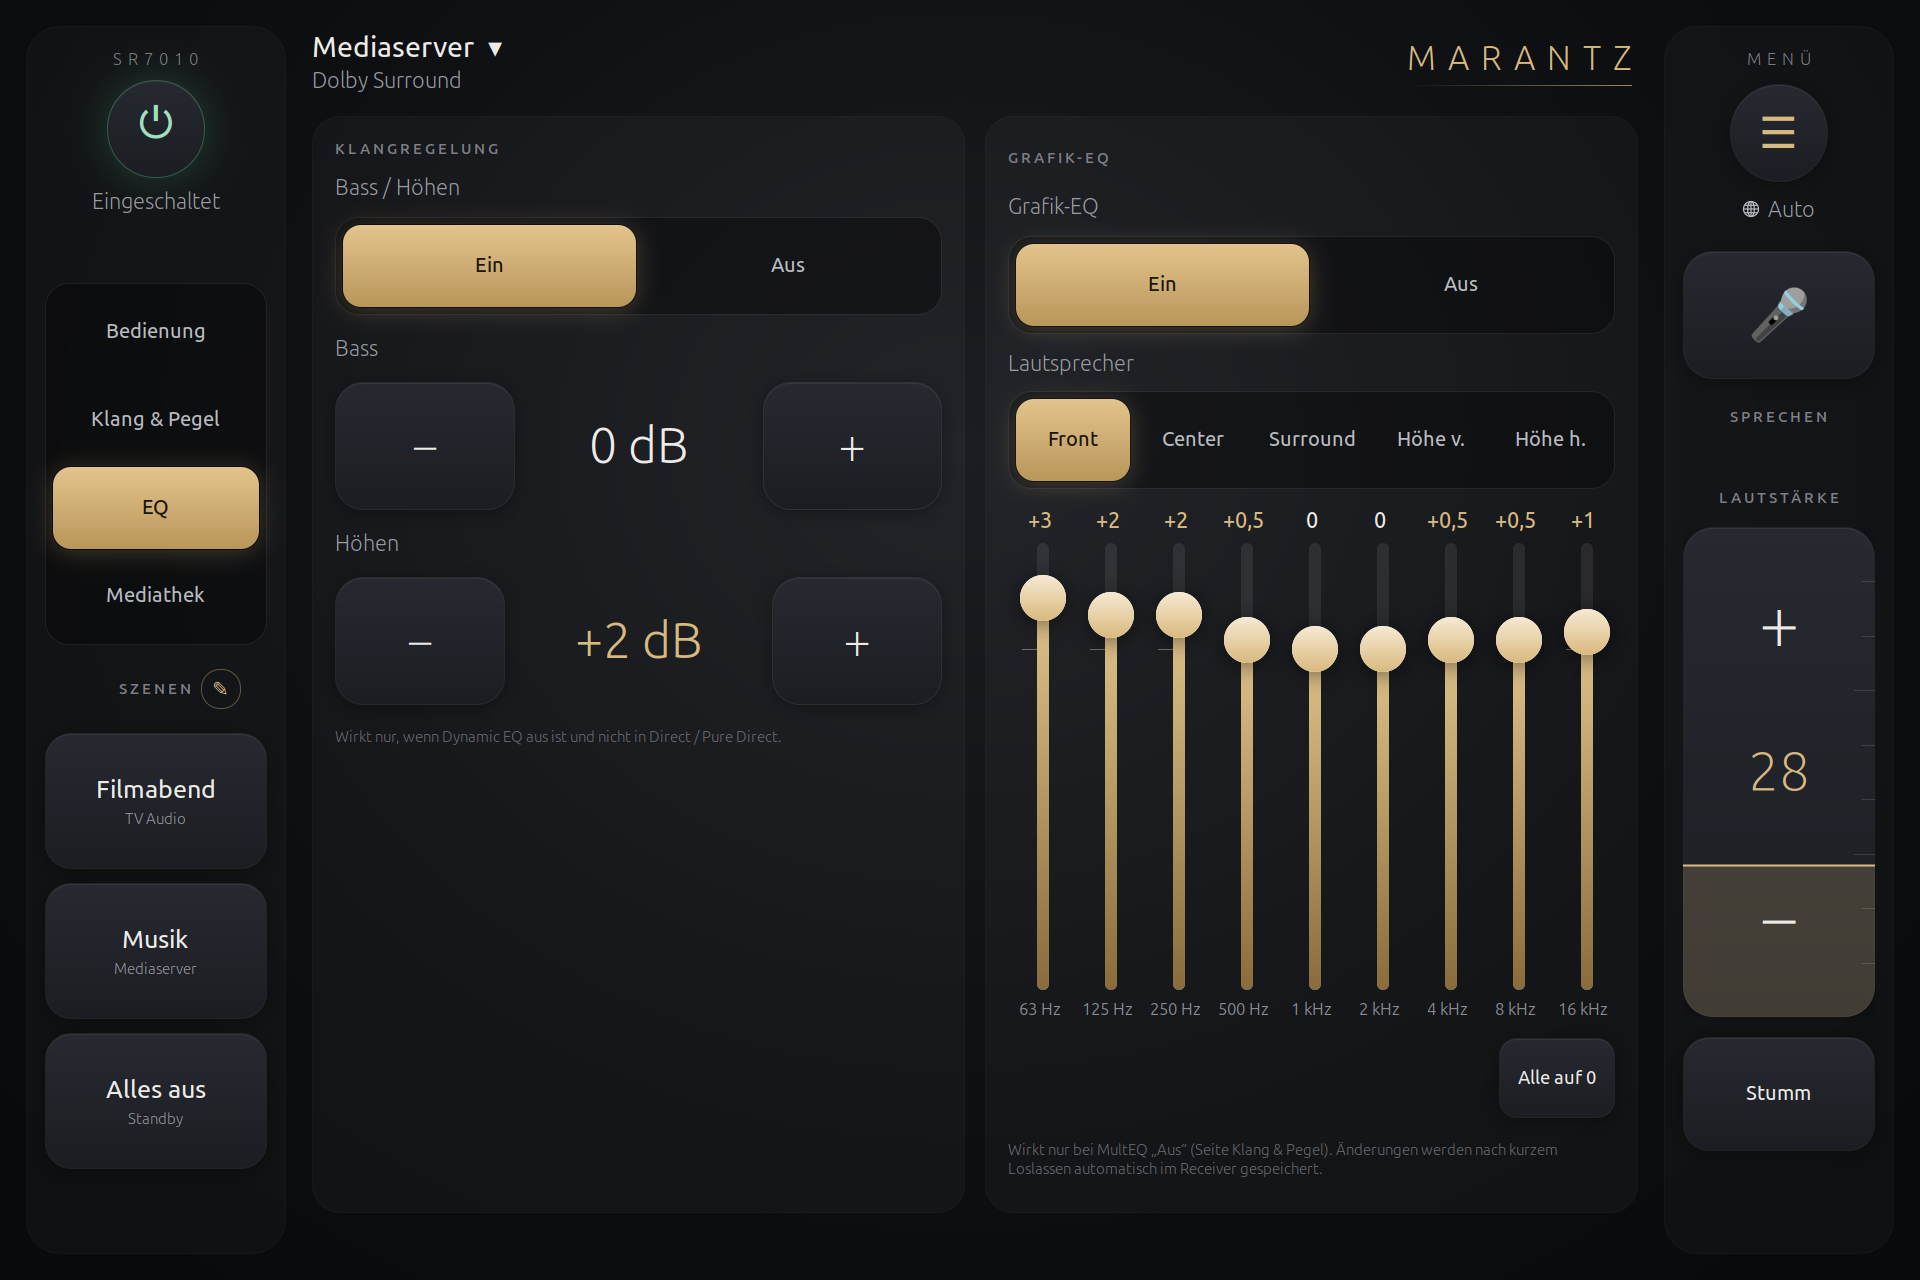
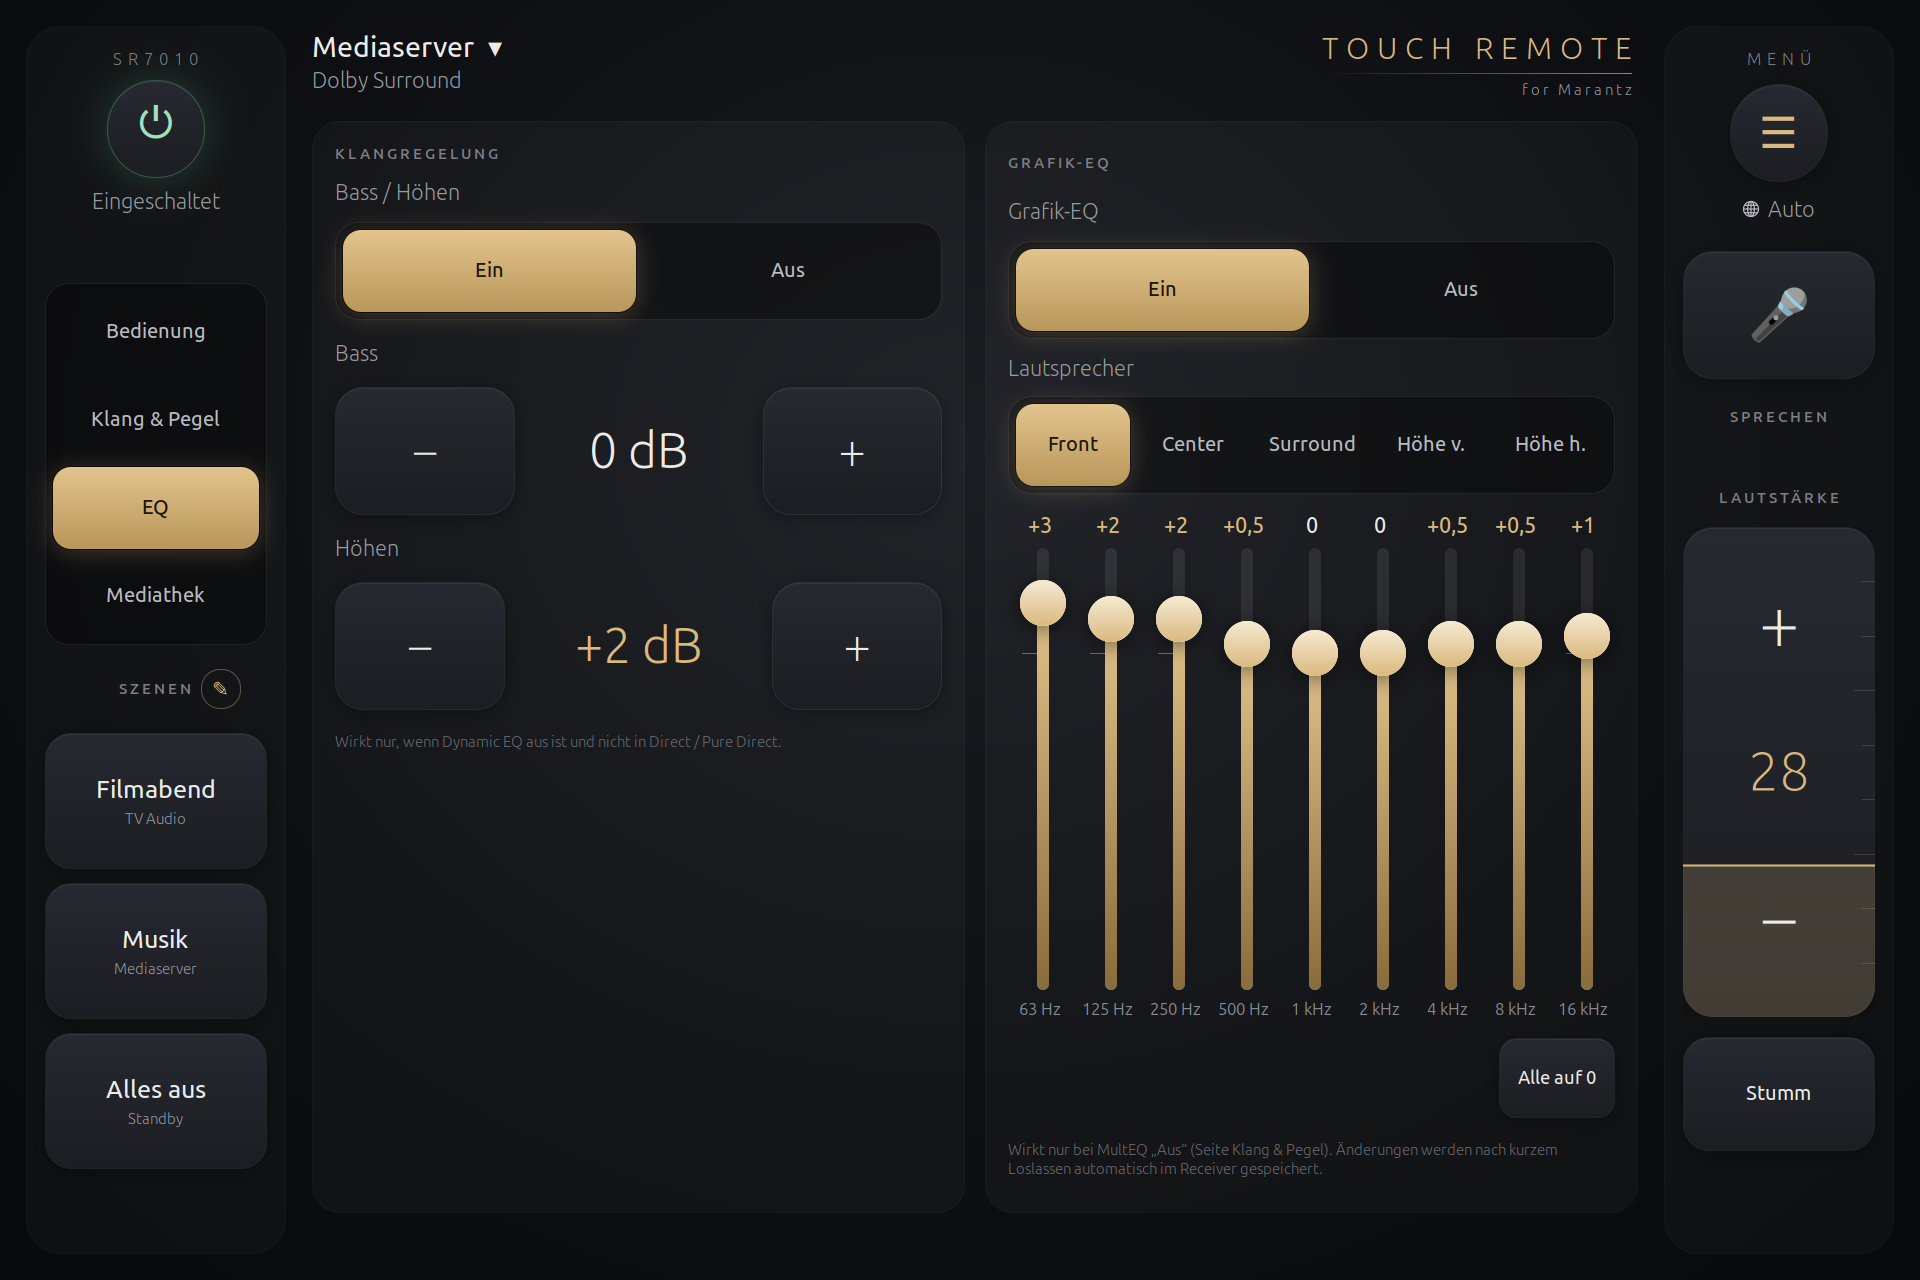
Rename to "Touch Remote for Marantz"
- New wordmark in the app, window title and menu entry
- READMEs, installer text and licence line use the new name
- New screenshots

diff --git a/app.py b/app.py
@@ -208,7 +208,8 @@ button.mic { min-height: 110px; font-size: 30pt; border-radius: 30px; }
 button.mic.listening { background-image: linear-gradient(to bottom, #e2c48c, #b9965a);
                        border-color: rgba(255,230,180,0.6);
                        box-shadow: 0 0 34px rgba(217,185,126,0.55); }
-.wordmark { font-size: 20pt; font-weight: 300; letter-spacing: 12px; color: #d9b97e; }
+.wordmark { font-size: 18pt; font-weight: 300; letter-spacing: 8px; color: #d9b97e; }
+.wordsub { font-size: 9pt; font-weight: 300; letter-spacing: 3px; color: #9a9da4; }
 .wordline { min-height: 1px; background-image: linear-gradient(to right, rgba(217,185,126,0), rgba(217,185,126,0.7)); }
 scrollbar slider { min-width: 6px; background-color: rgba(255,255,255,0.15); border-radius: 3px; }
 scrollbar { background-color: transparent; border: none; }
@@ -741,7 +742,7 @@ def in_bg(fn, done=None, err=None):
 # ---------- Hauptfenster ----------
 class App(Gtk.Window):
     def __init__(self):
-        super().__init__(title="Marantz")
+        super().__init__(title="Touch Remote for Marantz")
         here = Path(__file__).resolve().parent
         self.set_icon_from_file(str(here / "icon.svg"))
         self.set_default_size(1500, 1000)
@@ -821,7 +822,7 @@ class App(Gtk.Window):
 
         top = Gtk.Box(orientation=Gtk.Orientation.VERTICAL, spacing=10)
         top.set_halign(Gtk.Align.CENTER)
-        self.model_lbl = label("MARANTZ", "brand")          # wird durch das echte Modell ersetzt
+        self.model_lbl = label("RECEIVER", "brand")          # wird durch das echte Modell ersetzt
         top.pack_start(self.model_lbl, False, False, 0)
         self.power_btn = button("⏻", self.toggle_power, "power")
         self.power_btn.set_halign(Gtk.Align.CENTER)
@@ -907,8 +908,9 @@ class App(Gtk.Window):
         top.pack_start(Gtk.Box(), True, True, 0)
         mark_box = Gtk.Box(orientation=Gtk.Orientation.VERTICAL, spacing=6)
         mark_box.set_valign(Gtk.Align.CENTER)
-        mark_box.pack_start(label("MARANTZ", "wordmark", xalign=1), False, False, 0)
+        mark_box.pack_start(label("TOUCH REMOTE", "wordmark", xalign=1), False, False, 0)
         mark_box.pack_start(add_cls(Gtk.Box(), "wordline"), False, False, 0)
+        mark_box.pack_start(label("for Marantz", "wordsub", xalign=1), False, False, 0)
         top.pack_start(mark_box, False, False, 6)
         col.pack_start(top, False, False, 4)
 

diff --git a/README.de.md b/README.de.md
@@ -1,4 +1,4 @@
-# marantz-touch-remote
+# Touch Remote for Marantz
 
 🇬🇧 [English version](README.md)
 
@@ -49,7 +49,7 @@ sudo apt install python3-gi python3-gi-cairo gir1.2-gtk-3.0   # falls noch nicht
 ./install.sh
 ```
 
-Danach im Startmenü **„Marantz“** starten. Das Skript installiert nur für den aktuellen Benutzer
+Danach im Startmenü **„Touch Remote for Marantz“** starten. Das Skript installiert nur für den aktuellen Benutzer
 (nach `~/.local/share/marantz-fernbedienung`) und richtet den Hintergrunddienst
 `marantz-web` (systemd-User-Dienst) ein. Entfernen: `./uninstall.sh`.
 

diff --git a/README.md b/README.md
@@ -1,4 +1,4 @@
-# marantz-touch-remote
+# Touch Remote for Marantz
 
 🇩🇪 [Deutsche Version](README.de.md)
 
@@ -48,7 +48,7 @@ sudo apt install python3-gi python3-gi-cairo gir1.2-gtk-3.0   # if not installed
 ./install.sh
 ```
 
-Then start **“Marantz”** from the menu. The script installs for the current user only
+Then start **“Touch Remote for Marantz”** from the menu. The script installs for the current user only
 (to `~/.local/share/marantz-fernbedienung`) and sets up the background service
 `marantz-web` (systemd user service). Remove with `./uninstall.sh`.
 
